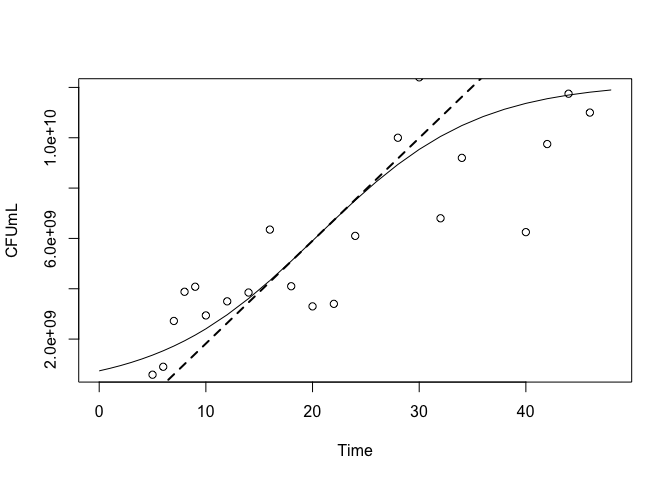
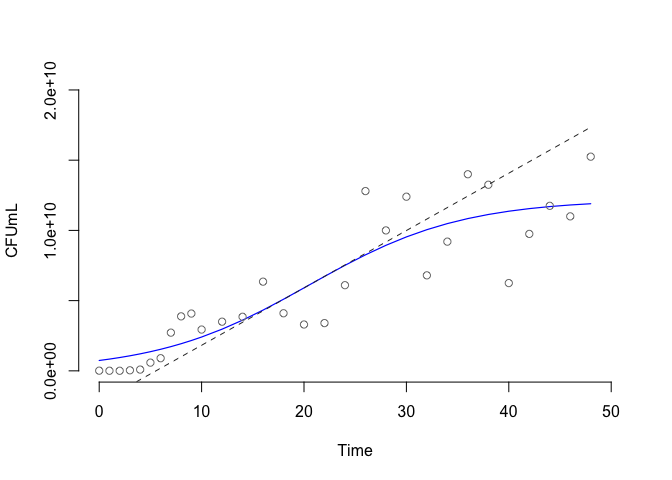
Version 0.1.4 Updates
- Added formatting support to `plot.gcfit`
- Added `autoplot.gcfit` and `gggrowthcurve`
- Renamed 'raw' to 'data' in gcfit objects
- grofit messages are now suppressed
- Added [broom](https://github.com/dgrtwo/broom)-compatible `tidy` function

diff --git a/NEWS.md b/NEWS.md
@@ -2,7 +2,9 @@
 
 - Renamed 'raw' to 'data' in gfcit objects
 - Added `autoplot.gcfit` function and alias `gggrowthcurve`
+- Added formatting options for `plot.gcfit`
 - Added [broom](https://github.com/dgrtwo/broom)-compatible `tidy` function
+- grofit messages are now suppressed
 
 # growthcurve 0.1.3
 
